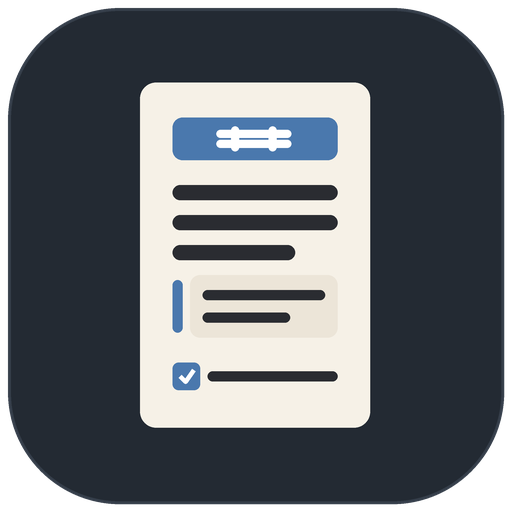
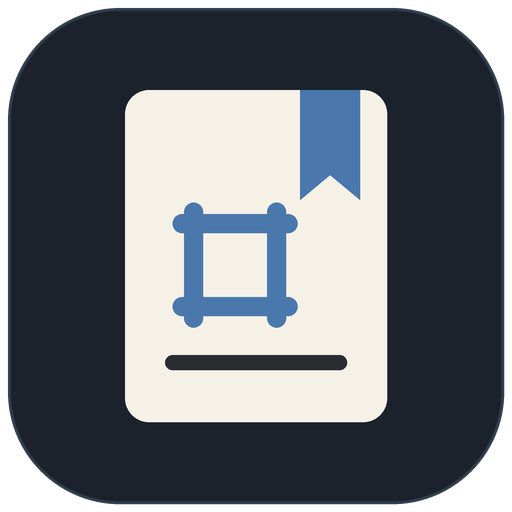
Give the app mark a more distinctive brand silhouette
Replace the generic page lines with a bold Markdown # and blue bookmark ribbon, and regenerate both PNG and ICO assets.

Changed region(s): [[0.2188, 0.1562, 0.7812, 0.8438], [0.3125, 0.6875, 0.6875, 0.7812]]

diff --git a/scripts/generate-icon.py b/scripts/generate-icon.py
@@ -11,12 +11,10 @@ SIZE = 2048  # supersampled; downscaled for the final assets
 ASSETS = Path(__file__).resolve().parent.parent / "assets"
 
 ACCENT = "#4A78AD"
-TILE = "#232A33"
-TILE_BORDER = "#343D49"
+TILE = "#1C222B"
+TILE_BORDER = "#2C3A4A"
 PAGE = "#F6F1E7"
-PAGE_QUOTE = "#ECE5D8"
 INK = "#2A2C31"
-WHITE = "#FFFFFF"
 
 
 def rounded_box(
@@ -30,48 +28,49 @@ def rounded_box(
     draw.rounded_rectangle(box, radius=radius, fill=fill, outline=outline, width=width)
 
 
+def hash_mark(
+    draw: ImageDraw.ImageDraw,
+    center: tuple[int, int],
+    width: int,
+    height: int,
+    thickness: int,
+    color: str,
+) -> None:
+    cx, cy = center
+    for x in (cx - width // 3, cx + width // 3):
+        rounded_box(
+            draw,
+            (x - thickness // 2, cy - height // 2, x + thickness // 2, cy + height // 2),
+            thickness // 2,
+            color,
+        )
+    for y in (cy - height // 3, cy + height // 3):
+        rounded_box(
+            draw,
+            (cx - width // 2, y - thickness // 2, cx + width // 2, y + thickness // 2),
+            thickness // 2,
+            color,
+        )
+
+
 image = Image.new("RGBA", (SIZE, SIZE), (0, 0, 0, 0))
 draw = ImageDraw.Draw(image)
 
 # App tile.
 rounded_box(draw, (32, 32, SIZE - 32, SIZE - 32), 448, TILE, TILE_BORDER, 12)
 
-# Paper sheet.
-rounded_box(draw, (560, 330, 1480, 1710), 64, PAGE)
-
-# Blue Markdown heading bar with a white # mark.
-rounded_box(draw, (690, 470, 1350, 640), 40, ACCENT)
-for x in (940, 1090):
-    rounded_box(draw, (x - 16, 505, x + 16, 605), 16, WHITE)
-for y in (535, 575):
-    rounded_box(draw, (865, y - 16, 1165, y + 16), 16, WHITE)
-
-# Body lines.
-for box in (
-    (690, 740, 1350, 800),
-    (690, 860, 1350, 920),
-    (690, 980, 1180, 1040),
-):
-    rounded_box(draw, box, 30, INK)
-
-# Quote block.
-rounded_box(draw, (690, 1120, 730, 1330), 20, ACCENT)
-rounded_box(draw, (760, 1100, 1350, 1350), 40, PAGE_QUOTE)
-for box in (
-    (810, 1160, 1300, 1200),
-    (810, 1250, 1160, 1290),
-):
-    rounded_box(draw, box, 20, INK)
-
-# Task row.
-rounded_box(draw, (690, 1450, 800, 1560), 24, ACCENT)
-draw.line(
-    [(720, 1505), (742, 1527), (775, 1480)],
-    fill=WHITE,
-    width=18,
-    joint="curve",
+# Cream page with a blue bookmark ribbon.
+rounded_box(draw, (500, 360, 1548, 1688), 96, PAGE)
+draw.polygon(
+    [(1200, 360), (1440, 360), (1440, 800), (1320, 700), (1200, 800)],
+    fill=ACCENT,
 )
-rounded_box(draw, (830, 1485, 1350, 1525), 20, INK)
+
+# Bold Markdown # mark.
+hash_mark(draw, (940, 1060), 500, 500, 76, ACCENT)
+
+# A single page line anchors the mark.
+rounded_box(draw, (660, 1420, 1388, 1480), 30, INK)
 
 # Downscale for the window / package icon.
 icon = image.resize((512, 512), Image.LANCZOS)
